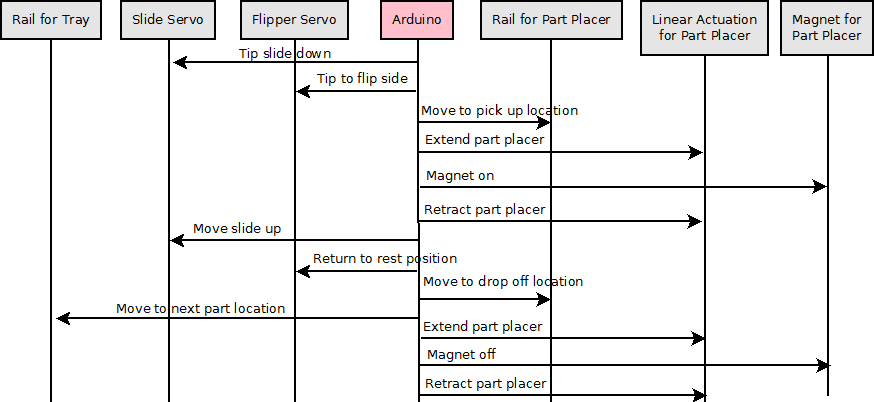
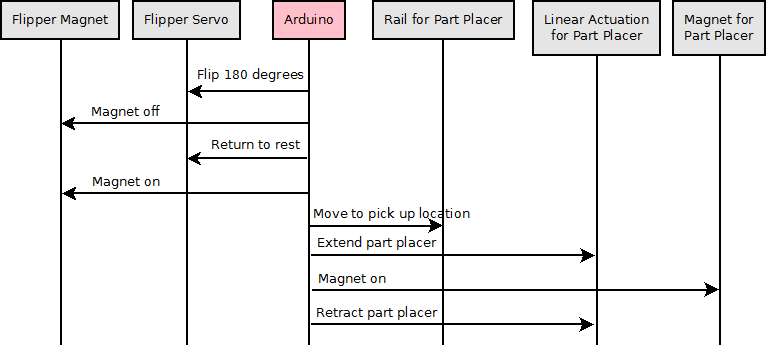
sequence diagrams

Changed region(s): [[0.0, 0.0, 1.0, 1.0], [0.7497, 0.8116, 0.8096, 0.8696]]

diff --git a/portfolio/Documents/Sequence_Diagrams/Sequence_Diagrams.html b/portfolio/Documents/Sequence_Diagrams/Sequence_Diagrams.html
@@ -16,17 +16,17 @@ Michael O'Connor (mkoconno) <br>
 <hr style="width: 100%; height: 2px;">
 <h2>Use Cases</h2>
 <ul>
-<li><a href="#1.1">1.1 Move part from seperator to camera</a></li>
+<li><a href="#1.1">1.1 Move part from separator to camera</a></li>
 <li><a href="#2.1">2.1 Pick up part from camera (correct orientation)</a></li>
 <li><a href="#2.2">2.2 Pick up part from camera (180 degrees flipped)</a></li>
 <li><a href="#2.3">2.3 Pick up part from camera (upsidedown)</a></li>
-<li><a href="#2.4">2.4 Pick up part from camera (upsidedown and 180 degreea flipped)</a></li>
+<li><a href="#2.4">2.4 Pick up part from camera (upsidedown and 180 degrees flipped)</a></li>
 <li><a href="#3.1">3.1 Place part on tray</a></li>
 <li><a href="#4.1">4.1 Place flux on part</a></li>
 <li><a href="#5.1">5.1 Dispense wire onto part</a></li>
 </ul>
 
-<h3><a name="1.1"></a> 1.1 Move part from seperator to camera</h3>
+<h3><a name="1.1"></a> 1.1 Move part from separator to camera</h3>
 <h4>Initial Conditions</h4>
 <ul>
 <li>Part is in hopper</li>
@@ -46,94 +46,101 @@ Michael O'Connor (mkoconno) <br>
 <h4>Initial Conditions</h4>
 <ul>
 <li>Part is front of camera in correct orientation</li>
-<li>Magnet is off</li>
+<li>Magnet for part placer is off</li>
+<li>Flipper Magnet is on</li>
 <li>Part placer located over tray</li>
 <li>Placer arm is retracted</li>
-<li>Slide in neutral position</li>
 <li>Flipper in neutral position</li>
 </ul>
 <h4>Final Conditions</h4>
 <ul>
-<li>Part is on tray</li>
-<li>Magnet is off</li>
-<li>Part placer located over tray</li>
+<li>Magnet for part placer is on</li>
+<li>Flipper Magnet is on</li>
+<li>Part placer located over camera</li>
 <li>Placer arm is retracted</li>
-<li>Slide in neutral position</li>
 <li>Flipper in neutral position</li>
 </ul>
 <h4>Sequence Diagram</h4>
-<img style="width: 875x; height: 408x;" alt="D2.1" src="D2_1.png"><br>
+<img style="width: 635x; height: 423x;" alt="D2.1" src="D2_1.png"><br>
 
 <h3><a name="2.2"></a> 2.2 Pick up part from camera (180 degrees flipped)</h3>
 <h4>Initial Conditions</h4>
 <ul>
-<li>Part is front of camera in correct orientation</li>
-<li>Magnet is off</li>
+<li>Part is front of camera but is 180 degrees flipped</li>
+<li>Magnet for part placer is off</li>
+<li>Flipper Magnet is on</li>
 <li>Part placer located over tray</li>
 <li>Placer arm is retracted</li>
-<li>Slide in neutral position</li>
 <li>Flipper in neutral position</li>
 </ul>
 <h4>Final Conditions</h4>
 <ul>
-<li>Part is on tray</li>
-<li>Magnet is off</li>
-<li>Part placer located over tray</li>
+<li>Magnet for part placer is on</li>
+<li>Flipper Magnet is on</li>
+<li>Part placer located over camera</li>
 <li>Placer arm is retracted</li>
-<li>Slide in neutral position</li>
 <li>Flipper in neutral position</li>
 </ul>
 <h4>Sequence Diagram</h4>
-<img style="width: 993x; height: 501x;" alt="D2.2" src="D2_2.png"><br>
+<img style="width: 753x; height: 299x;" alt="D2.2" src="D2_2.png"><br>
 
 <h3><a name="2.3"></a> 2.3 Pick up part from camera (upsidedown)</h3>
 <h4>Initial Conditions</h4>
 <ul>
-<li>Part is front of camera in correct orientation</li>
-<li>Magnet is off</li>
+<li>Part is front of camera but upsidedown</li>
+<li>Magnet for part placer is off</li>
+<li>Flipper Magnet is on</li>
 <li>Part placer located over tray</li>
 <li>Placer arm is retracted</li>
-<li>Slide in neutral position</li>
 <li>Flipper in neutral position</li>
 </ul>
 <h4>Final Conditions</h4>
 <ul>
-<li>Part is on tray</li>
-<li>Magnet is off</li>
-<li>Part placer located over tray</li>
+<li>Magnet for part placer is on</li>
+<li>Flipper Magnet is on</li>
+<li>Part placer located over camera</li>
 <li>Placer arm is retracted</li>
-<li>Slide in neutral position</li>
 <li>Flipper in neutral position</li>
 </ul>
 <h4>Sequence Diagram</h4>
-<img style="width: 875x; height: 426x;" alt="D2.3" src="D2_3.png"><br>
+<img style="width: 767x; height: 345x;" alt="D2.3" src="D2_3.png"><br>
 
 <h3><a name="2.4"></a> 2.4 Pick up part from camera (upsidedown and 180 degrees flipped)</h3>
 <h4>Initial Conditions</h4>
 <ul>
-<li>Part is front of camera in correct orientation</li>
-<li>Magnet is off</li>
+<li>Part is front of camera but upsidedown and 180 degrees flipped</li>
+<li>Magnet for part placer is off</li>
+<li>Flipper Magnet is on</li>
 <li>Part placer located over tray</li>
 <li>Placer arm is retracted</li>
-<li>Slide in neutral position</li>
 <li>Flipper in neutral position</li>
 </ul>
 <h4>Final Conditions</h4>
 <ul>
-<li>Part is on tray</li>
-<li>Magnet is off</li>
-<li>Part placer located over tray</li>
+<li>Magnet for part placer is on</li>
+<li>Flipper Magnet is on</li>
+<li>Part placer located over camera</li>
 <li>Placer arm is retracted</li>
-<li>Slide in neutral position</li>
 <li>Flipper in neutral position</li>
 </ul>
 <h4>Sequence Diagram</h4>
-<img style="width: 993x; height: 501x;" alt="D2.4" src="D2_4.png"><br>
+<img style="width: 885x; height: 367x;" alt="D2.4" src="D2_4.png"><br>
 
 <h3><a name="3.1"></a> 3.1 Place part on tray</h3>
 <h4>Initial Conditions</h4>
+<ul>
+<li>part is being held by magnet</li>
+<li>part is correct orientation</li>
+<li>linear actuator is retracted</li>
+</ul>
 <h4>Final Conditions</h4>
+<ul>
+<li>magnet is off</li>
+<li>part is on tray</li>
+<li>linear actuator is retracted</li>
+</ul>
 <h4>Sequence Diagram</h4>
+<img style="width: 637x; height: 201x;" alt="D3.1" src="D3_1.png"><br>
 
 <h3><a name="4.1"></a> 4.1 Place flux on part</h3>
 <h4>Initial Conditions</h4>
